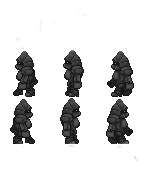
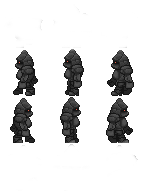
correction quelques images. Ajouter autres images de background. Fait les coins

diff --git a/js/game.js b/js/game.js
@@ -53,6 +53,12 @@ function loadLevels() {
                 num_spritesheet++;
             });
 
+            // load coins
+            lvl.coins.forEach(coin => {
+                level.addCoin(new Coin(coin.posX, coin.posY));           
+                num_spritesheet++;
+            });            
+
             levels.push(level);
 
             levels[i].enemies.forEach((enemy) => {
@@ -60,6 +66,14 @@ function loadLevels() {
                     enemy.initSprites();   
                     num_spritesheet_loaded++;
                     startGame();            // ERASE
+                }
+            });
+
+            levels[i].coins.forEach((coin) => {
+                coin.spritesheet.onload = function() {
+                    coin.initSprites();   
+                    num_spritesheet_loaded++;
+                    startGame();            // ERASE or change for a loading in start page
                 }
             });
             i++;

diff --git a/js/coin.js b/js/coin.js
@@ -1,10 +1,12 @@
-let COIN_SRC = "images/star_coin.png";
+let COIN_SRC = {
+    star_coin: "images/coins.png"
+}
 
 function Coin(pos_x, pos_y) {
-    let SPRITE_WIDTH = 48;
-    let SPRITE_HEIGHT = 48;
+    let SPRITE_WIDTH = 90;
+    let SPRITE_HEIGHT = 105;
     let NB_POSTURES = 1;
-    let NB_FRAMES_PER_POSTURE = 3;
+    let NB_FRAMES_PER_POSTURE = 6;
 
     this.pos_x = pos_x;
     this.pos_y = pos_y;
@@ -18,12 +20,12 @@ function Coin(pos_x, pos_y) {
     // Sprites attributes
     this.sprites = [];
     this.spritesheet = new Image();
-    this.spritesheet.src = COIN_SRC;
+    this.spritesheet.src = COIN_SRC.star_coin;
     
 
     this.draw = function(ctx) {
         ctx.save();
-        this.sprites[0].draw(ctx, this.pos_x, this.pos_y, 1);
+        this.sprites[0].draw(ctx, this.pos_x, this.pos_y, 0.3);
         ctx.restore();
     }
 

diff --git a/js/level.js b/js/level.js
@@ -13,7 +13,7 @@ function Level(environment) {
         this.enemies.push(e);
     }
 
-    this.addCoins = function(c) {
+    this.addCoin = function(c) {
         this.coins.push(c);
     }
 
@@ -31,7 +31,10 @@ function Level(environment) {
             enemy.draw(ctx);  
         });
 
-        // TODO: move and draw coins
+        this.coins.forEach((coin) => {
+            coin.draw(ctx);  
+        });
+
         ctx.restore();
     }
 

diff --git a/index.html b/index.html
@@ -9,6 +9,7 @@
 <script src="js/player.js"></script>
 <script src="js/level.js"></script>
 <script src="js/enemy.js"></script>
+<script src="js/coin.js"></script>
 <script src="js/listeners.js"></script>
 <script src="js/collisions.js"></script>
 <script src="js/platform.js"></script>

diff --git a/js/environment.js b/js/environment.js
@@ -1,6 +1,7 @@
 let CLOUDS_SRC = "images/cloud.png";
 let BACKGROUND_SRC = {
-    bckgd_1: "images/bg_lvl_1.png"
+    bckgd_1: "images/bg_lvl_1.png",
+    bckgd_2: "images/background_2.png"
 }
 
 
